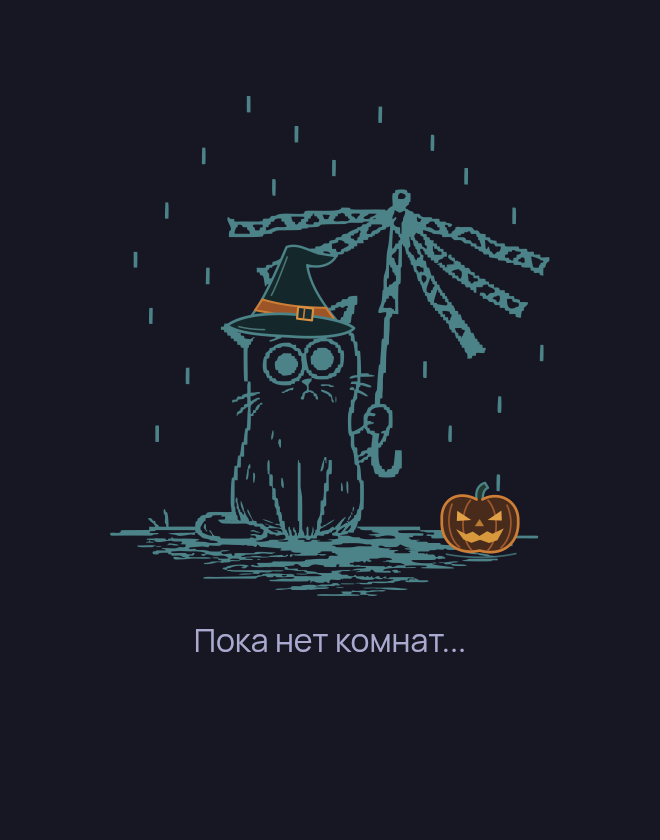
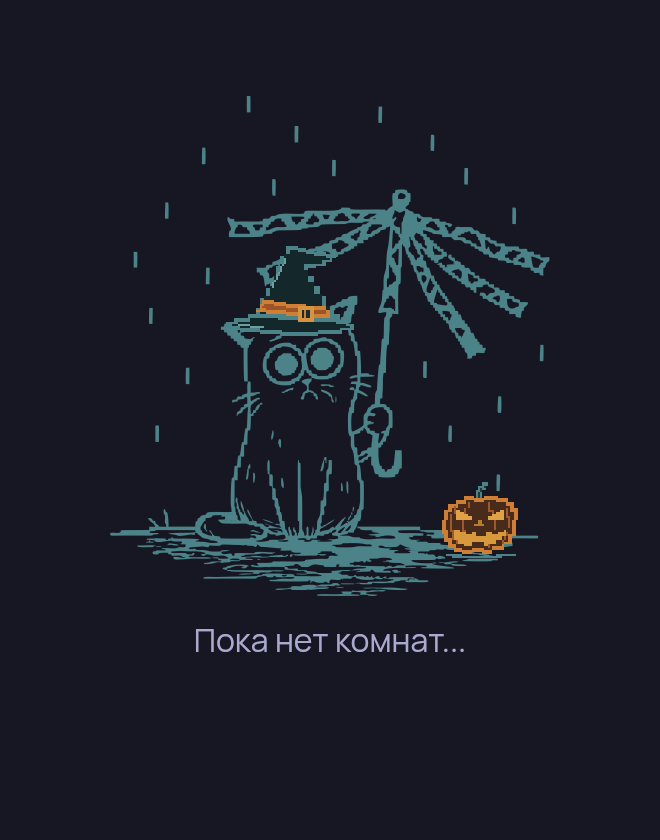
85 halloween redesign homepage

Changed region(s): [[0.3333, 0.2786, 0.5455, 0.4024], [0.6667, 0.5571, 0.7879, 0.681]]

diff --git a/frontend/halloween/README.md b/frontend/halloween/README.md
@@ -9,7 +9,7 @@
 
 Исходные изображения в `frontend/src/assets/images/` сохранены.
 
-Для пустого списка комнат используется сезонная версия `iconNoRooms`: прежний кот под сломанным зонтом с ведьминской шляпой, тыквой и бирюзово-оранжевыми контурами. Исходная SVG-иконка, её размер 220×250 и текст «Пока нет комнат...» сохраняются. Замена выполняется только в сезонном CSS; удаление темы возвращает исходный вариант без отдельных правок `Home.vue`.
+Для пустого списка комнат используется сезонная версия `iconNoRooms`: прежний кот под сломанным зонтом с пиксельной ведьминской шляпой, пиксельной тыквой и бирюзово-оранжевыми контурами. Новые детали используют ступенчатые линии на целочисленной сетке, без плавных кривых и скруглений. Исходная SVG-иконка, её размер 220×250 и текст «Пока нет комнат...» сохраняются. Замена выполняется только в сезонном CSS; удаление темы возвращает исходный вариант без отдельных правок `Home.vue`.
 
 Логотип с кровавыми потёками и тыквой и кнопка профиля с двумя когтями отображаются на всех страницах, использующих общий хедер, в том числе при прямом открытии этих страниц. Кнопка профиля сохраняет пользовательский фон, аватар, ник, значки, стрелку и прежнее меню; медная рамка и когти добавлены только в сезонном CSS. Кнопка создания комнаты и её украшения остаются частью главной страницы. На страницах без хедера отдельный логотип не добавляется.
 
